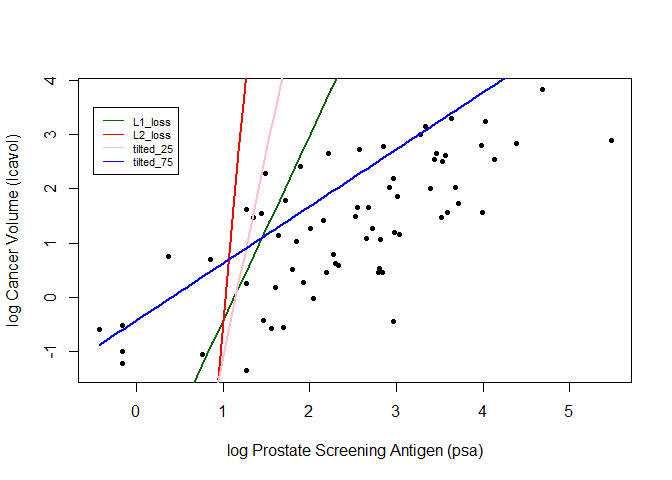
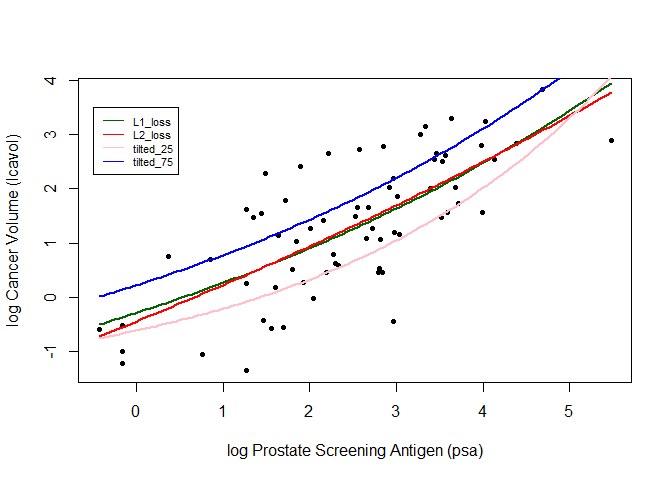
Revised function for nonlinear model

diff --git a/Homework-2/Homework-2.md b/Homework-2/Homework-2.md
@@ -159,9 +159,9 @@
 
 **Question 3**
 
-    fit_lin_q3<- function(y, x, loss, beta_init = c(-0.51, 0.75,0)) {
+    fit_lin_q3<- function(y, x, loss, beta_init = c(-1.0, 0.0, -0.3), ...) {
       err <- function(beta)
-        mean(loss(y,  beta[1] + beta[2]*exp(-beta[3]*x)))
+        mean(loss(y,  beta[1] + beta[2]*exp(-beta[3]*x),...))
       beta <- optim(par = beta_init, fn = err)
       return(beta$par)
     }
@@ -188,10 +188,10 @@
                   max(prostate_train$lpsa),
                   length.out=100)
 
-    lin_pred_L1_q3 <- predict_lin(x=x_grid, beta=lin_beta_L1_q3)
-    lin_pred_L2_q3 <- predict_lin(x=x_grid, beta=lin_beta_L2_q3)
-    lin_pred_tilted_25_q3 <- predict_lin(x=x_grid, beta=lin_beta_tilted_25_q3)
-    lin_pred_tilted_75_q3 <- predict_lin(x=x_grid, beta=lin_beta_tilted_75_q3)
+    lin_pred_L1_q3 <- predict_lin_q3(x=x_grid, beta=lin_beta_L1_q3)
+    lin_pred_L2_q3 <- predict_lin_q3(x=x_grid, beta=lin_beta_L2_q3)
+    lin_pred_tilted_25_q3 <- predict_lin_q3(x=x_grid, beta=lin_beta_tilted_25_q3)
+    lin_pred_tilted_75_q3 <- predict_lin_q3(x=x_grid, beta=lin_beta_tilted_75_q3)
 
 **Question 4**
 
